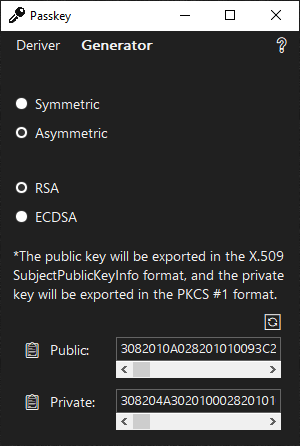
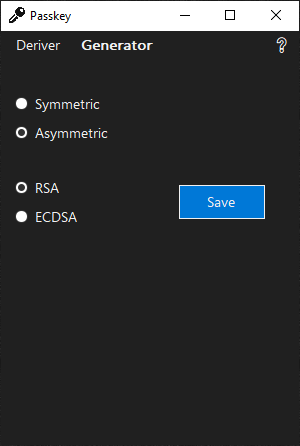
Changed Asymmetric panel to save to PEM files

diff --git a/WinFormsUI/Display.Designer.cs b/WinFormsUI/Display.Designer.cs
@@ -55,16 +55,9 @@
             GeneratePanel_AsymmetricRadioButton = new RadioButton();
             GeneratePanel_SymmetricRadioButton = new RadioButton();
             AsymmetricPanel = new Panel();
-            AsymmetricPanel_RefreshLabel = new Label();
-            AsymmetricPanel_InfoLabel = new Label();
+            AsymmetricPanel_DownloadButton = new Button();
             AsymmetricPanel_EcdsaRadioButton = new RadioButton();
-            AsymmetricPanel_PrivateKeyValueTextBox = new TextBox();
             AsymmetricPanel_RsaRadioButton = new RadioButton();
-            AsymmetricPanel_PublicKeyValueTextBox = new TextBox();
-            AsymmetricPanel_PrivateKeyClipboardLabel = new Label();
-            AsymmetricPanel_PublicKeyClipboardLabel = new Label();
-            AsymmetricPanel_PrivateKeyLabel = new Label();
-            AsymmetricPanel_PublicKeyLabel = new Label();
             SymmetricPanel = new Panel();
             SymmetricPanel_RefreshLabel = new Label();
             SymmetricPanel_KeyValueTextBox = new TextBox();
@@ -395,43 +388,26 @@
             // 
             // AsymmetricPanel
             // 
-            AsymmetricPanel.Controls.Add(AsymmetricPanel_RefreshLabel);
-            AsymmetricPanel.Controls.Add(AsymmetricPanel_InfoLabel);
+            AsymmetricPanel.Controls.Add(AsymmetricPanel_DownloadButton);
             AsymmetricPanel.Controls.Add(AsymmetricPanel_EcdsaRadioButton);
-            AsymmetricPanel.Controls.Add(AsymmetricPanel_PrivateKeyValueTextBox);
             AsymmetricPanel.Controls.Add(AsymmetricPanel_RsaRadioButton);
-            AsymmetricPanel.Controls.Add(AsymmetricPanel_PublicKeyValueTextBox);
-            AsymmetricPanel.Controls.Add(AsymmetricPanel_PrivateKeyClipboardLabel);
-            AsymmetricPanel.Controls.Add(AsymmetricPanel_PublicKeyClipboardLabel);
-            AsymmetricPanel.Controls.Add(AsymmetricPanel_PrivateKeyLabel);
-            AsymmetricPanel.Controls.Add(AsymmetricPanel_PublicKeyLabel);
             AsymmetricPanel.Location = new Point(0, 82);
             AsymmetricPanel.Name = "AsymmetricPanel";
             AsymmetricPanel.Size = new Size(297, 292);
             AsymmetricPanel.TabIndex = 20;
             // 
-            // AsymmetricPanel_RefreshLabel
+            // AsymmetricPanel_DownloadButton
             // 
-            AsymmetricPanel_RefreshLabel.AutoSize = true;
-            AsymmetricPanel_RefreshLabel.ForeColor = SystemColors.ButtonFace;
-            AsymmetricPanel_RefreshLabel.Location = new Point(258, 160);
-            AsymmetricPanel_RefreshLabel.Name = "AsymmetricPanel_RefreshLabel";
-            AsymmetricPanel_RefreshLabel.Size = new Size(28, 19);
-            AsymmetricPanel_RefreshLabel.TabIndex = 25;
-            AsymmetricPanel_RefreshLabel.Text = "🔄";
-            AsymmetricPanel_RefreshLabel.Click += AsymmetricPanel_RefreshLabel_Click;
-            AsymmetricPanel_RefreshLabel.MouseEnter += Label_MouseEnter;
-            AsymmetricPanel_RefreshLabel.MouseLeave += Label_MouseLeave;
-            // 
-            // AsymmetricPanel_InfoLabel
-            // 
-            AsymmetricPanel_InfoLabel.AutoSize = true;
-            AsymmetricPanel_InfoLabel.ForeColor = SystemColors.ButtonFace;
-            AsymmetricPanel_InfoLabel.Location = new Point(8, 94);
-            AsymmetricPanel_InfoLabel.Name = "AsymmetricPanel_InfoLabel";
-            AsymmetricPanel_InfoLabel.Size = new Size(284, 57);
-            AsymmetricPanel_InfoLabel.TabIndex = 24;
-            AsymmetricPanel_InfoLabel.Text = "*The public key will be exported in the X.509 \r\nSubjectPublicKeyInfo format, and the private \r\nkey will be exported in the PKCS #1 format.\r\n";
+            AsymmetricPanel_DownloadButton.BackColor = SystemColors.Highlight;
+            AsymmetricPanel_DownloadButton.FlatStyle = FlatStyle.Flat;
+            AsymmetricPanel_DownloadButton.ForeColor = SystemColors.ButtonFace;
+            AsymmetricPanel_DownloadButton.Location = new Point(178, 33);
+            AsymmetricPanel_DownloadButton.Name = "AsymmetricPanel_DownloadButton";
+            AsymmetricPanel_DownloadButton.Size = new Size(86, 34);
+            AsymmetricPanel_DownloadButton.TabIndex = 24;
+            AsymmetricPanel_DownloadButton.Text = "Save";
+            AsymmetricPanel_DownloadButton.UseVisualStyleBackColor = false;
+            AsymmetricPanel_DownloadButton.Click += AsymmetricPanel_DownloadButton_Click;
             // 
             // AsymmetricPanel_EcdsaRadioButton
             // 
@@ -445,20 +421,6 @@
             AsymmetricPanel_EcdsaRadioButton.Text = "ECDSA";
             AsymmetricPanel_EcdsaRadioButton.UseVisualStyleBackColor = true;
             // 
-            // AsymmetricPanel_PrivateKeyValueTextBox
-            // 
-            AsymmetricPanel_PrivateKeyValueTextBox.BackColor = Color.FromArgb(32, 32, 32);
-            AsymmetricPanel_PrivateKeyValueTextBox.BorderStyle = BorderStyle.FixedSingle;
-            AsymmetricPanel_PrivateKeyValueTextBox.ForeColor = SystemColors.ButtonFace;
-            AsymmetricPanel_PrivateKeyValueTextBox.Location = new Point(115, 237);
-            AsymmetricPanel_PrivateKeyValueTextBox.Multiline = true;
-            AsymmetricPanel_PrivateKeyValueTextBox.Name = "AsymmetricPanel_PrivateKeyValueTextBox";
-            AsymmetricPanel_PrivateKeyValueTextBox.ReadOnly = true;
-            AsymmetricPanel_PrivateKeyValueTextBox.ScrollBars = ScrollBars.Horizontal;
-            AsymmetricPanel_PrivateKeyValueTextBox.Size = new Size(165, 41);
-            AsymmetricPanel_PrivateKeyValueTextBox.TabIndex = 19;
-            AsymmetricPanel_PrivateKeyValueTextBox.WordWrap = false;
-            // 
             // AsymmetricPanel_RsaRadioButton
             // 
             AsymmetricPanel_RsaRadioButton.AutoSize = true;
@@ -471,67 +433,6 @@
             AsymmetricPanel_RsaRadioButton.TabStop = true;
             AsymmetricPanel_RsaRadioButton.Text = "RSA";
             AsymmetricPanel_RsaRadioButton.UseVisualStyleBackColor = true;
-            AsymmetricPanel_RsaRadioButton.CheckedChanged += AsymmetricPanel_RsaRadioButton_CheckedChanged;
-            // 
-            // AsymmetricPanel_PublicKeyValueTextBox
-            // 
-            AsymmetricPanel_PublicKeyValueTextBox.BackColor = Color.FromArgb(32, 32, 32);
-            AsymmetricPanel_PublicKeyValueTextBox.BorderStyle = BorderStyle.FixedSingle;
-            AsymmetricPanel_PublicKeyValueTextBox.ForeColor = SystemColors.ButtonFace;
-            AsymmetricPanel_PublicKeyValueTextBox.Location = new Point(115, 185);
-            AsymmetricPanel_PublicKeyValueTextBox.Multiline = true;
-            AsymmetricPanel_PublicKeyValueTextBox.Name = "AsymmetricPanel_PublicKeyValueTextBox";
-            AsymmetricPanel_PublicKeyValueTextBox.ReadOnly = true;
-            AsymmetricPanel_PublicKeyValueTextBox.ScrollBars = ScrollBars.Horizontal;
-            AsymmetricPanel_PublicKeyValueTextBox.Size = new Size(165, 41);
-            AsymmetricPanel_PublicKeyValueTextBox.TabIndex = 16;
-            AsymmetricPanel_PublicKeyValueTextBox.WordWrap = false;
-            // 
-            // AsymmetricPanel_PrivateKeyClipboardLabel
-            // 
-            AsymmetricPanel_PrivateKeyClipboardLabel.AutoSize = true;
-            AsymmetricPanel_PrivateKeyClipboardLabel.ForeColor = SystemColors.ButtonFace;
-            AsymmetricPanel_PrivateKeyClipboardLabel.Location = new Point(19, 240);
-            AsymmetricPanel_PrivateKeyClipboardLabel.Name = "AsymmetricPanel_PrivateKeyClipboardLabel";
-            AsymmetricPanel_PrivateKeyClipboardLabel.Size = new Size(25, 19);
-            AsymmetricPanel_PrivateKeyClipboardLabel.TabIndex = 18;
-            AsymmetricPanel_PrivateKeyClipboardLabel.Text = "📋";
-            AsymmetricPanel_PrivateKeyClipboardLabel.Click += AsymmetricPanel_PrivateKeyClipboardLabel_Click;
-            AsymmetricPanel_PrivateKeyClipboardLabel.MouseEnter += Label_MouseEnter;
-            AsymmetricPanel_PrivateKeyClipboardLabel.MouseLeave += Label_MouseLeave;
-            // 
-            // AsymmetricPanel_PublicKeyClipboardLabel
-            // 
-            AsymmetricPanel_PublicKeyClipboardLabel.AutoSize = true;
-            AsymmetricPanel_PublicKeyClipboardLabel.ForeColor = SystemColors.ButtonFace;
-            AsymmetricPanel_PublicKeyClipboardLabel.Location = new Point(19, 188);
-            AsymmetricPanel_PublicKeyClipboardLabel.Name = "AsymmetricPanel_PublicKeyClipboardLabel";
-            AsymmetricPanel_PublicKeyClipboardLabel.Size = new Size(25, 19);
-            AsymmetricPanel_PublicKeyClipboardLabel.TabIndex = 15;
-            AsymmetricPanel_PublicKeyClipboardLabel.Text = "📋";
-            AsymmetricPanel_PublicKeyClipboardLabel.Click += AsymmetricPanel_PublicKeyClipboardLabel_Click;
-            AsymmetricPanel_PublicKeyClipboardLabel.MouseEnter += Label_MouseEnter;
-            AsymmetricPanel_PublicKeyClipboardLabel.MouseLeave += Label_MouseLeave;
-            // 
-            // AsymmetricPanel_PrivateKeyLabel
-            // 
-            AsymmetricPanel_PrivateKeyLabel.AutoSize = true;
-            AsymmetricPanel_PrivateKeyLabel.ForeColor = SystemColors.ButtonFace;
-            AsymmetricPanel_PrivateKeyLabel.Location = new Point(45, 240);
-            AsymmetricPanel_PrivateKeyLabel.Name = "AsymmetricPanel_PrivateKeyLabel";
-            AsymmetricPanel_PrivateKeyLabel.Size = new Size(54, 19);
-            AsymmetricPanel_PrivateKeyLabel.TabIndex = 17;
-            AsymmetricPanel_PrivateKeyLabel.Text = "Private:";
-            // 
-            // AsymmetricPanel_PublicKeyLabel
-            // 
-            AsymmetricPanel_PublicKeyLabel.AutoSize = true;
-            AsymmetricPanel_PublicKeyLabel.ForeColor = SystemColors.ButtonFace;
-            AsymmetricPanel_PublicKeyLabel.Location = new Point(45, 188);
-            AsymmetricPanel_PublicKeyLabel.Name = "AsymmetricPanel_PublicKeyLabel";
-            AsymmetricPanel_PublicKeyLabel.Size = new Size(48, 19);
-            AsymmetricPanel_PublicKeyLabel.TabIndex = 14;
-            AsymmetricPanel_PublicKeyLabel.Text = "Public:";
             // 
             // SymmetricPanel
             // 
@@ -691,12 +592,6 @@
         private TextBox SymmetricPanel_KeyLengthTextBox;
         private RadioButton GeneratePanel_AsymmetricRadioButton;
         private RadioButton GeneratePanel_SymmetricRadioButton;
-        private TextBox AsymmetricPanel_PrivateKeyValueTextBox;
-        private Label AsymmetricPanel_PrivateKeyClipboardLabel;
-        private Label AsymmetricPanel_PrivateKeyLabel;
-        private Label AsymmetricPanel_PublicKeyLabel;
-        private TextBox AsymmetricPanel_PublicKeyValueTextBox;
-        private Label AsymmetricPanel_PublicKeyClipboardLabel;
         private Panel AsymmetricPanel;
         private Panel SymmetricPanel;
         private TextBox SymmetricPanel_KeyValueTextBox;
@@ -706,10 +601,9 @@
         private Label DeriverPanel_RefreshLabel;
         private RadioButton AsymmetricPanel_EcdsaRadioButton;
         private RadioButton AsymmetricPanel_RsaRadioButton;
-        private Label AsymmetricPanel_InfoLabel;
-        private Label AsymmetricPanel_RefreshLabel;
         private ComboBox DeriverPanel_AlgorithmComboBox;
         private NumericUpDown DeriverPanel_IterationsNumericUpDown;
         private Label DeriverPanel_IterationsLabel;
+        private Button AsymmetricPanel_DownloadButton;
     }
 }

diff --git a/WinFormsUI/Display.cs b/WinFormsUI/Display.cs
@@ -8,6 +8,8 @@ namespace WinFormsUI
     {
         private bool isEyeballLabelClicked = false;
         private byte[] salt = null;
+        private string publicKeyPemString;
+        private string privateKeyPemString;
 
         public Display()
         {
@@ -301,22 +303,14 @@ namespace WinFormsUI
 
         private void AsymmetricTryComputeKey()
         {
-            (byte[] publicKeyBytes, byte[] privateKeyBytes) = (null, null);
-
             if (AsymmetricPanel_RsaRadioButton.Checked)
             {
-                (publicKeyBytes, privateKeyBytes) = AsymmetricKeyGenerator.GenerateRsaKeyPair();
+                (publicKeyPemString, privateKeyPemString) = AsymmetricKeyGenerator.GenerateRsaKeyPair();
             }
             else if (AsymmetricPanel_EcdsaRadioButton.Checked)
             {
-                (publicKeyBytes, privateKeyBytes) = AsymmetricKeyGenerator.GenerateEcdsaKeyPair();
+                (publicKeyPemString, privateKeyPemString) = AsymmetricKeyGenerator.GenerateEcdsaKeyPair();
             }
-
-            string publicKey = BitConverter.ToString(publicKeyBytes).Replace("-", "");
-            string privateKey = BitConverter.ToString(privateKeyBytes).Replace("-", "");
-
-            AsymmetricPanel_PublicKeyValueTextBox.Text = publicKey;
-            AsymmetricPanel_PrivateKeyValueTextBox.Text = privateKey;
         }
 
         private void SymmetricPanel_KeyClipboardLabel_Click(object sender, EventArgs e)
@@ -334,43 +328,24 @@ namespace WinFormsUI
             SymmetricTryComputeKey();
         }
 
-        private void AsymmetricPanel_RsaRadioButton_CheckedChanged(object sender, EventArgs e)
-        {
-            if (AsymmetricPanel_RsaRadioButton.Checked)
-            {
-                AsymmetricPanel_InfoLabel.Text = "*The public key will be exported in the X.509 \r\nSubjectPublicKeyInfo format, and the private \r\nkey will be exported in the PKCS #1 format.\r\n";
-                AsymmetricTryComputeKey();
-            }
-            else if (AsymmetricPanel_EcdsaRadioButton.Checked)
-            {
-                AsymmetricPanel_InfoLabel.Text = "*The public key will be exported in the X.509 \r\nSubjectPublicKeyInfo format, and the private \r\nkey will be exported in the PKCS #8 format.\r\n";
-                AsymmetricTryComputeKey();
-            }
-        }
-
-        private void AsymmetricPanel_PublicKeyClipboardLabel_Click(object sender, EventArgs e)
-        {
-            if (string.IsNullOrWhiteSpace(AsymmetricPanel_PublicKeyValueTextBox.Text))
-            {
-                return;
-            }
-
-            Clipboard.SetText(AsymmetricPanel_PublicKeyValueTextBox.Text);
-        }
-
-        private void AsymmetricPanel_PrivateKeyClipboardLabel_Click(object sender, EventArgs e)
-        {
-            if (string.IsNullOrWhiteSpace(AsymmetricPanel_PrivateKeyValueTextBox.Text))
-            {
-                return;
-            }
-
-            Clipboard.SetText(AsymmetricPanel_PrivateKeyValueTextBox.Text);
-        }
-
         private void AsymmetricPanel_RefreshLabel_Click(object sender, EventArgs e)
         {
             AsymmetricTryComputeKey();
+        }
+
+        private void AsymmetricPanel_DownloadButton_Click(object sender, EventArgs e)
+        {
+            // select save folder
+            using FolderBrowserDialog folderBrowserDialog = new();
+            folderBrowserDialog.ShowNewFolderButton = true;
+            if (folderBrowserDialog.ShowDialog() != DialogResult.OK)
+                return;
+
+            // save files
+            string publicKeyPath = Path.Combine(folderBrowserDialog.SelectedPath, "public_key.pem");
+            string privateKeyPath = Path.Combine(folderBrowserDialog.SelectedPath, "private_key.pem");
+            File.WriteAllText(privateKeyPath, privateKeyPemString);
+            File.WriteAllText(publicKeyPath, publicKeyPemString);
         }
     }
 }

diff --git a/PasskeyLibrary/AsymmetricKeyGenerator.cs b/PasskeyLibrary/AsymmetricKeyGenerator.cs
@@ -1,9 +1,6 @@
 using System;
-using System.Collections.Generic;
-using System.Linq;
 using System.Security.Cryptography;
 using System.Text;
-using System.Threading.Tasks;
 
 namespace PasskeyLibrary;
 
@@ -13,29 +10,36 @@ namespace PasskeyLibrary;
 public static class AsymmetricKeyGenerator
 {
     /// <summary>
-    /// Generates an RSA key pair.
+    /// Generates an RSA key pair in PEM format.
     /// </summary>
-    /// <returns>A tuple containing the public and private keys as byte arrays.</returns>
-    public static (byte[] publicKey, byte[] privateKey) GenerateRsaKeyPair()
+    /// <returns>A tuple containing the public and private keys as PEM-formatted strings.</returns>
+    public static (string publicKeyPem, string privateKeyPem) GenerateRsaKeyPair()
     {
-        using RSA rsa = RSA.Create();
-        byte[] publicKey = rsa.ExportRSAPublicKey();
-        byte[] privateKey = rsa.ExportRSAPrivateKey();
+        using RSA rsa = RSA.Create(2048);
 
-        return (publicKey, privateKey);
+        byte[] publicKey = rsa.ExportSubjectPublicKeyInfo();
+        byte[] privateKey = rsa.ExportPkcs8PrivateKey();
+
+        string publicPem = $"-----BEGIN PUBLIC KEY-----\n{Convert.ToBase64String(publicKey, Base64FormattingOptions.InsertLineBreaks)}\n-----END PUBLIC KEY-----";
+        string privatePem = $"-----BEGIN PRIVATE KEY-----\n{Convert.ToBase64String(privateKey, Base64FormattingOptions.InsertLineBreaks)}\n-----END PRIVATE KEY-----";
+
+        return (publicPem, privatePem);
     }
 
     /// <summary>
-    /// Generates an ECDSA key pair.
+    /// Generates an ECDSA key pair in PEM format.
     /// </summary>
-    /// <returns>A tuple containing the public and private keys as byte arrays.</returns>
-    public static (byte[] publicKey, byte[] privateKey) GenerateEcdsaKeyPair()
+    /// <returns>A tuple containing the public and private keys as PEM-formatted strings.</returns>
+    public static (string publicKeyPem, string privateKeyPem) GenerateEcdsaKeyPair()
     {
-        using ECDsa ecdsa = ECDsa.Create();
+        using ECDsa ecdsa = ECDsa.Create(ECCurve.NamedCurves.nistP256);
 
         byte[] publicKey = ecdsa.ExportSubjectPublicKeyInfo();
         byte[] privateKey = ecdsa.ExportPkcs8PrivateKey();
 
-        return (publicKey, privateKey);
+        string publicPem = $"-----BEGIN PUBLIC KEY-----\n{Convert.ToBase64String(publicKey, Base64FormattingOptions.InsertLineBreaks)}\n-----END PUBLIC KEY-----";
+        string privatePem = $"-----BEGIN PRIVATE KEY-----\n{Convert.ToBase64String(privateKey, Base64FormattingOptions.InsertLineBreaks)}\n-----END PRIVATE KEY-----";
+
+        return (publicPem, privatePem);
     }
 }

diff --git a/README.md b/README.md
@@ -76,8 +76,7 @@ The Generator panel allows creation of a symmetric or asymmetric key pair using 
 
 #### Asymmetric Panel
 
-- **🔄**: recomputes a new key pair.
-- **📋**: copies a value to the clipboard.
+- **Save**: saves the public and private keys to PEM files.
 
 <img src="./images/AsymmetricPanel.png" width="300">
 
